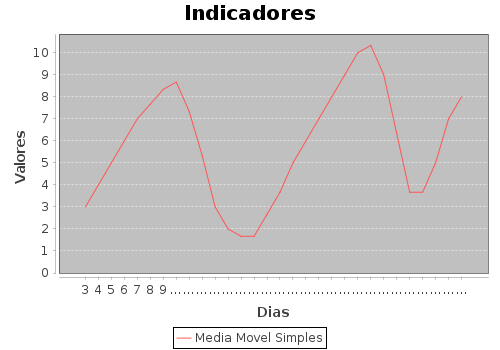
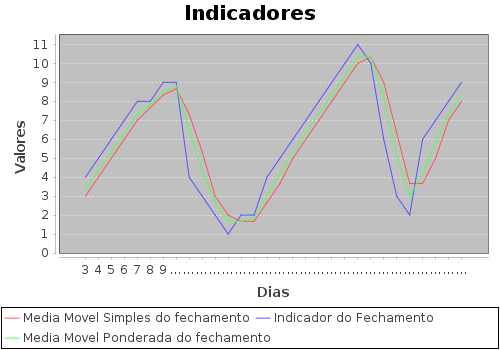
Upgrading the Media's classes and the Graphic ...(T_T T_T Finally, I made a graphic... It's an uncontrollable emotion... XD)

diff --git a/src/main/java/br/com/caelum/argentum/testes/TestaGrafico.java b/src/main/java/br/com/caelum/argentum/testes/TestaGrafico.java
@@ -4,6 +4,10 @@ import java.io.FileOutputStream;
 import java.io.IOException;
 
 import br.com.caelum.argentum.graficos.GeradorDeGrafico;
+import br.com.caelum.argentum.indicadores.IndicadorFechamento;
+import br.com.caelum.argentum.indicadores.MediaMovelPonderada;
+import br.com.caelum.argentum.indicadores.MediaMovelSimples;
+
 import javax.swing.JFrame;
 import br.com.caelum.argentum.modelo.GeradorDeSerie;
 import br.com.caelum.argentum.modelo.SerieTemporal;
@@ -14,10 +18,13 @@ public class TestaGrafico {
 				8, 9, 9, 4, 3, 2, 1, 2, 2, 4, 5, 6, 7, 8, 9, 10, 11, 10, 6, 3,
 				2, 6, 7, 8, 9);
 		GeradorDeGrafico g = new GeradorDeGrafico(serie, 3, 32);
-		g.plotaMediaMovelSimples();
+		g.plotaIndicador(new MediaMovelSimples());
+		g.plotaIndicador(new IndicadorFechamento());
+		g.plotaIndicador(new MediaMovelPonderada());
+
 		g.salva(new FileOutputStream("grafico.png"));
-		
-		JFrame frame = new JFrame("Minha janela");
+
+		JFrame frame = new JFrame("Grafico X.0");
 		frame.add(g.getPanel());
 
 		frame.setDefaultCloseOperation(JFrame.EXIT_ON_CLOSE);

diff --git a/src/main/java/br/com/caelum/argentum/graficos/GeradorDeGrafico.java b/src/main/java/br/com/caelum/argentum/graficos/GeradorDeGrafico.java
@@ -12,7 +12,7 @@ import org.jfree.chart.JFreeChart;
 import org.jfree.chart.plot.PlotOrientation;
 import org.jfree.data.category.DefaultCategoryDataset;
 
-import br.com.caelum.argentum.indicadores.MediaMovelSimples;
+import br.com.caelum.argentum.indicadores.Indicador;
 import br.com.caelum.argentum.modelo.SerieTemporal;
 
 public class GeradorDeGrafico {
@@ -34,8 +34,7 @@ public class GeradorDeGrafico {
 				"Valores", dados, PlotOrientation.VERTICAL, true, true, false);
 	}
 
-	public void plotaMediaMovelSimples() {
-		MediaMovelSimples ind = new MediaMovelSimples();
+	public void plotaIndicador(Indicador ind) {
 		for (int i = comeco; i <= fim; i++) {
 			double valor = ind.calcula(i, serie);
 			dados.addValue(valor, ind.toString(), Integer.valueOf(i));
@@ -45,8 +44,8 @@ public class GeradorDeGrafico {
 	public void salva(OutputStream out) throws IOException {
 		ChartUtilities.writeChartAsPNG(out, grafico, 500, 350);
 	}
-	
+
 	public JPanel getPanel() {
-		  return new ChartPanel(grafico);
-		}
+		return new ChartPanel(grafico);
+	}
 }

diff --git a/src/main/java/br/com/caelum/argentum/indicadores/MediaMovelSimples.java b/src/main/java/br/com/caelum/argentum/indicadores/MediaMovelSimples.java
@@ -2,20 +2,26 @@ package br.com.caelum.argentum.indicadores;
 
 import br.com.caelum.argentum.modelo.SerieTemporal;
 
-public class MediaMovelSimples {
+public class MediaMovelSimples implements Indicador {
+	/*
+	 * (non-Javadoc)
+	 * 
+	 * @see br.com.caelum.argentum.indicadores.Indicador#calcula(int,
+	 * br.com.caelum.argentum.modelo.SerieTemporal)
+	 */
+	@Override
 	public double calcula(int posicao, SerieTemporal serie) {
-	     double soma = 0.0;
-	     for (int i = posicao - 2; i <= posicao; i++) {
-	       soma += serie.getCandle(i).getFechamento();
-	     }
-	     return soma / 3;
-	   }
+		double soma = 0.0;
+		for (int i = posicao - 2; i <= posicao; i++) {
+			soma += serie.getCandle(i).getFechamento();
+		}
+		return soma / 3;
+	}
 
 	@Override
 	public String toString() {
 		// TODO Auto-generated method stub
-		return "Media Movel Simples";
+		return "Media Movel Simples do fechamento";
 	}
-	
-	
+
 }

diff --git a/src/main/java/br/com/caelum/argentum/indicadores/MediaMovelPonderada.java b/src/main/java/br/com/caelum/argentum/indicadores/MediaMovelPonderada.java
@@ -2,23 +2,24 @@ package br.com.caelum.argentum.indicadores;
 
 import br.com.caelum.argentum.modelo.SerieTemporal;
 
-public class MediaMovelPonderada {
+public class MediaMovelPonderada implements Indicador {
+
+	@Override
 	public double calcula(int posicao, SerieTemporal serie) {
-	     double soma = 0.0;
-	     byte peso = 1;
-	     for (int i = posicao - 2; i <= posicao; i++) {
-	       soma += (serie.getCandle(i).getFechamento() * peso);
-	       peso++;
-	       
-	     }
-	     return soma / 6;
-	   }
+		double soma = 0.0;
+		byte peso = 1;
+		for (int i = posicao - 2; i <= posicao; i++) {
+			soma += (serie.getCandle(i).getFechamento() * peso);
+			peso++;
+
+		}
+		return soma / 6;
+	}
 
 	@Override
 	public String toString() {
 		// TODO Auto-generated method stub
-		return "Media Movel Ponderada";
+		return "Media Movel Ponderada do fechamento";
 	}
-	
-	
+
 }

diff --git a/src/test/java/br/com/caelum/argentum/JUnitTests/MediaMovelSimplesTest.java b/src/test/java/br/com/caelum/argentum/JUnitTests/MediaMovelSimplesTest.java
@@ -4,6 +4,7 @@ import static org.junit.Assert.*;
 
 import org.junit.Test;
 
+import br.com.caelum.argentum.indicadores.Indicador;
 import br.com.caelum.argentum.indicadores.MediaMovelSimples;
 import br.com.caelum.argentum.modelo.GeradorDeSerie;
 import br.com.caelum.argentum.modelo.SerieTemporal;
@@ -16,7 +17,7 @@ public class MediaMovelSimplesTest {
 	   public void sequenciaSimplesDeCandles() throws Exception {
 	     SerieTemporal serie = 
 	         GeradorDeSerie.criaSerie(1, 2, 3, 4, 3, 4, 5, 4, 3);
-	     MediaMovelSimples mms = new MediaMovelSimples();
+	     Indicador mms = new MediaMovelSimples();
 	 
 	     assertEquals(2.0, mms.calcula(2, serie), 0.00001);
 	     assertEquals(3.0, mms.calcula(3, serie), 0.00001);

diff --git a/src/main/java/br/com/caelum/argentum/indicadores/IndicadorFechamento.java b/src/main/java/br/com/caelum/argentum/indicadores/IndicadorFechamento.java
@@ -1,0 +1,19 @@
+package br.com.caelum.argentum.indicadores;
+
+import br.com.caelum.argentum.modelo.SerieTemporal;
+
+public class IndicadorFechamento implements Indicador {
+
+	@Override
+	public double calcula(int posicao, SerieTemporal serie) {
+		// TODO Auto-generated method stub
+		return serie.getCandle(posicao).getFechamento();
+	}
+
+	@Override
+	public String toString() {
+		// TODO Auto-generated method stub
+		return "Indicador do Fechamento";
+	}
+
+}

diff --git a/src/main/java/br/com/caelum/argentum/indicadores/Indicador.java b/src/main/java/br/com/caelum/argentum/indicadores/Indicador.java
@@ -1,0 +1,9 @@
+package br.com.caelum.argentum.indicadores;
+
+import br.com.caelum.argentum.modelo.SerieTemporal;
+
+public interface Indicador {
+
+	public abstract double calcula(int posicao, SerieTemporal serie);
+
+}
